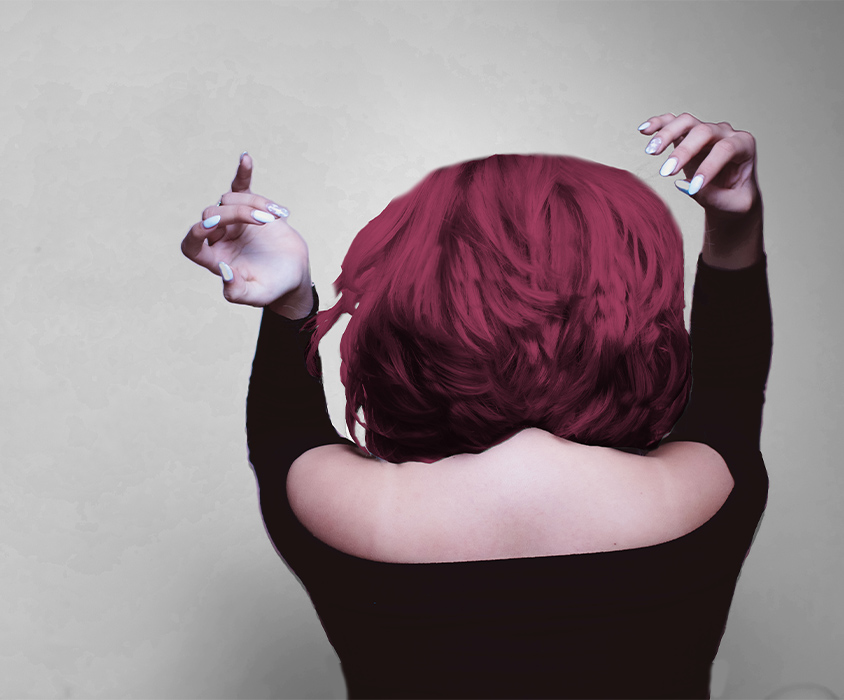
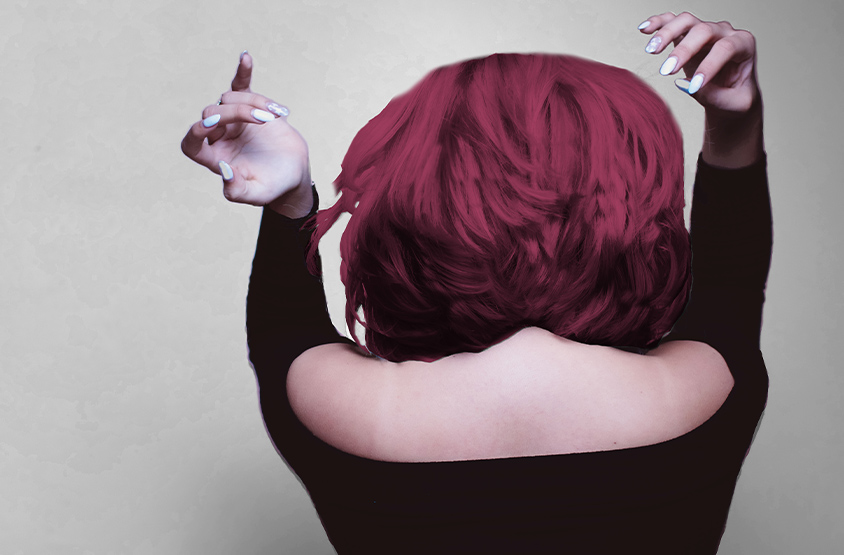
HTML-code of the website header

diff --git a/index.html b/index.html
@@ -9,29 +9,33 @@
 </head>
 <body>
 	<header>
-		<div class="header-nav">
-			<img src="img/logo.svg" alt="newred" class="header-nav-logo">
-			<div class="header-nav-menu">
-				<ul>
-					<li>Главная</li>
-					<li>Услуги</li>
-					<li>Цены</li>
-					<li>Онлайн-запись</li>
-					<li>Домашний уход</li>
-					<li>Контакты</li>
-				</ul>
+		<div class="container">
+			<div class="header-nav">
+				<img src="img/logo.svg" alt="newred" class="header-nav-logo">
+				<div class="header-nav-menu">
+					<ul>
+						<li><a href="#">Главная</a></li>
+						<li><a href="#">Услуги</a></li>
+						<li><a href="#">Цены</a></li>
+						<li><a href="#">Онлайн-запись</a></li>
+						<li><a href="#">Домашний уход</a></li>
+						<li><a href="#">Контакты</a></li>
+					</ul>
+				</div>
+				<div class="header-nav-phone">
+					<p>Телефон:</p>
+					<a href="#">+7 (918) 333-33-33</a>
+				</div>
 			</div>
-			<div class="header-nav-phone">
-				<p>Телефон</p>
-				<a href="#">+7 (918) 333-33-33</a>
+			<div class="header-content">
+				<div class="header-content-title">
+					<h1 class="header-content-title-h1">Все виды парикмахерских услуг</h1>
+					<button class="header-content-title-btn"><a href="#">Записаться</a></button>
+				</div>
+				<div class="header-content-img">
+					<img src="img/newredgirl1.jpg" alt="">
+				</div>
 			</div>
-		</div>
-		<div class="header-content">
-			<div class="header-content-title">
-				<h1 class="header-content-title-h1">Все виды парикмахерских услуг и ногтевой индустрии</h1>
-				<button class="header-content-title-btn">Онлайн-запись</button>
-			</div>
-			<img src="img/newredgirl.jpg" alt="" class="header-content-img">
 		</div>
 	</header>
 </body>

diff --git a/css/style.css b/css/style.css
@@ -1,3 +1,96 @@
-body {
+body,p,ul {
+	margin: 0;
+	padding: 0;
 	font-family: 'Noto Sans', sans-serif; 
+}
+header {
+	height: 100vh;
+}
+.container {
+	width: 100%;
+}
+.header-nav {
+	display: flex;
+	justify-content: space-between;
+	height: 70px;
+	background: #9c9692;
+	color: #fff;
+}
+.header-nav-logo {
+	padding-left: 26px;
+	width: 60px;
+}
+.header-nav-menu ul {
+	display: flex;
+	font-size: 16px;
+}
+.header-nav-menu ul li {
+	list-style: none;
+	/* margin-right: 30px; */
+	padding-left: 15px;
+	padding-right: 15px;
+	padding-top: 26px;
+	padding-bottom: 26px;
+}
+.header-nav-menu ul li:hover {
+	background: #d4cec8;
+	transition: 0.8s;
+}
+.header-nav-menu ul li a {
+	text-decoration: none;
+	color: #fff;
+	cursor: pointer;
+}
+.header-nav-phone {
+	width: 170px;
+	background: #88383d;
+}
+.header-nav-phone:hover {
+	width: 185px;
+	font-size: 20px;
+	line-height: 1;
+	transition: 0.8s;
+}
+.header-nav-phone p {
+	margin: 12px 0 7px 12px;
+}
+.header-nav-phone a {
+	text-decoration: none;
+	color: #fff;
+	font-weight: bold;
+	margin-left: 12px;
+}
+.header-content {
+	display: flex;
+}
+.header-content-title {
+	background: #ecece6;
+}
+.header-content-title {
+	width: 38.2%;
+}
+.header-content-title-h1 {
+	display: block;
+	margin-top: 130px;
+	margin-left: 80px;
+	font-size: 40px;
+	font-weight: normal;
+	width: 400px;
+}
+.header-content-title-btn {
+	background: #bb4e4f;
+	padding: 10px;
+	margin-left: 80px;
+	text-decoration: none;
+	border: none;
+	cursor: pointer;
+}
+.header-content-title-btn:hover {
+	background: #88383d;
+	transition: 0.8s;
+}
+.header-content-title-btn a {
+	font-size: 18px;
+	color: #fff;
+	text-decoration: none;
 }
